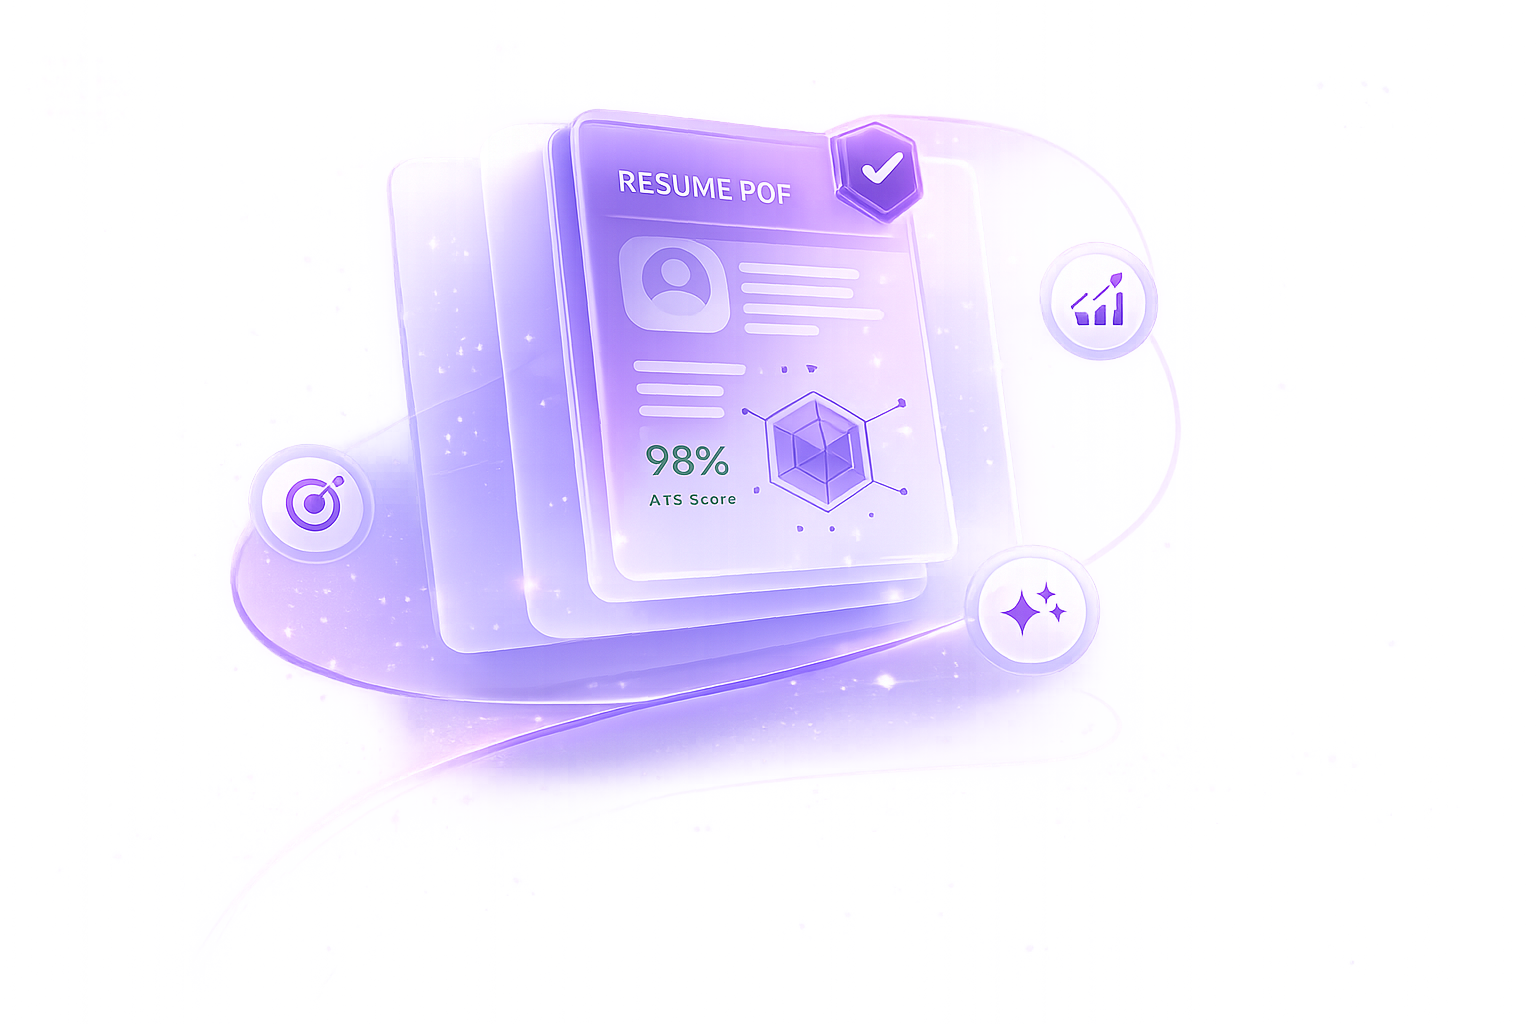
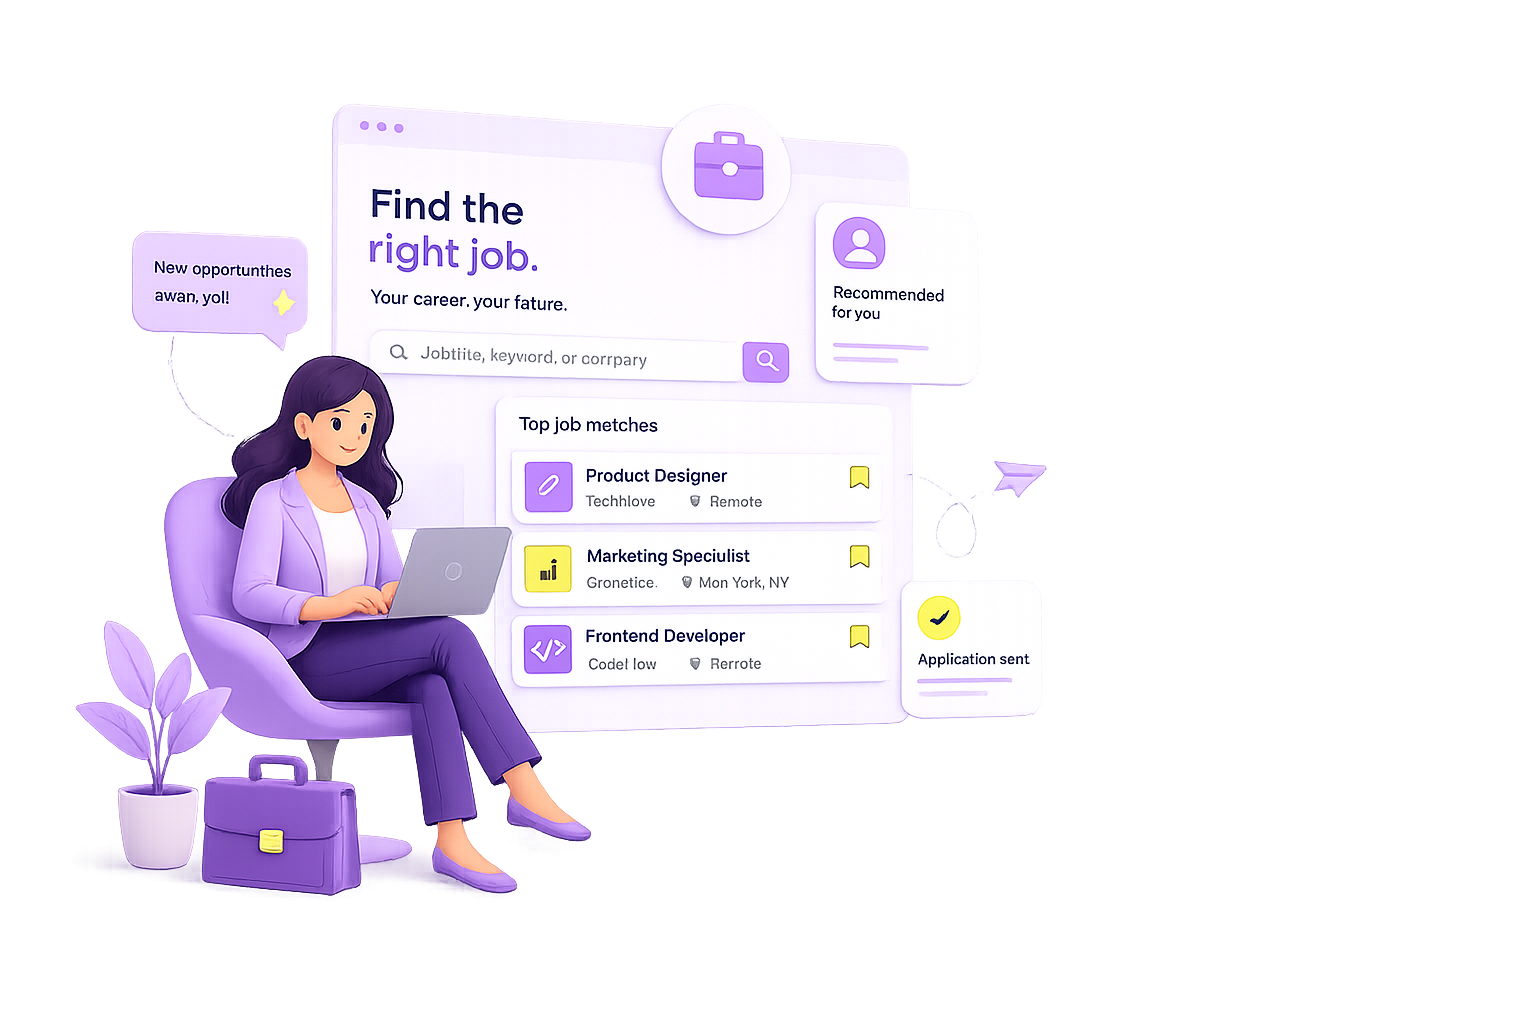
Center hero illustration in its blob halo, sample exact mark accent color
The illustration was visually off-center within the purple blob behind
it (~13px right, ~12px up from the blob's actual center, confirmed via
getBoundingClientRect). Nudged it into place with a margin offset
(kept off transform, which is reserved for the existing float
animation). Found a non-obvious CSS behavior along the way: an
asymmetric margin on a flex item inside a justify-content:center
parent only produces half the intended visual shift, since the
container redistributes half the margin as free space to keep the
item's margin-box centered — doubled the offset to compensate,
verified down to a 0.1px delta between the two centers.

Sampled the yellow sticky-note tag on the briefcase in
assets/hero-illustration.png with a one-off Pillow script (pixel
filter to exclude the surrounding purple/outline, averaged over two
independent regions): #F8F179. This is a distinctly warmer gold-yellow
than the current --accent (#ECFF70, more green-lime) — applied only to
the headline underline mark's background, --accent itself is
untouched everywhere else (buttons, badges, progress bar, flagship
dot).

Changed region(s): [[0.0312, 0.0938, 0.7188, 0.875], [0.6562, 0.25, 0.7812, 0.375], [0.2188, 0.0938, 0.25, 0.125]]

diff --git a/frontend/style.css b/frontend/style.css
@@ -298,6 +298,14 @@ h1, .display, .brand-name, .step-num, .count {
   min-width: 380px;
   max-width: 480px;
   height: auto;
+  /* محاذاة دقيقة لمركز البلوبة خلفها — قيست عبر getBoundingClientRect
+     فعلياً (مركز الرسم كان مزاحاً ~13px يميناً و~12px أعلى مركز البلوبة)،
+     عبر margin لا transform حتى لا تتصادم مع حركة الطفو أدناه. القيمة
+     مضاعفة عمداً (26/24 لا 13/12): `justify-content:center` بالحاوية
+     الأب يعيد توزيع نصف أي إزاحة margin كمساحة حرة متروكة، فتحقّق فعلياً
+     نصف القيمة المطلوبة فقط لو استُخدمت القيمة الأصلية (تحقق برمجي أكّد
+     ذلك: أول محاولة بقيم 13/12 حرّكت المركز 6.6/5.9px فقط، فضوعفت القيم). */
+  margin: 24px 0 0 -26px;
 }
 @media (prefers-reduced-motion: no-preference) {
   .upload-illustration { animation: illustration-float 4s ease-in-out infinite; }
@@ -323,7 +331,11 @@ h1, .display, .brand-name, .step-num, .count {
   left: -3px;
   bottom: 2px;
   height: 13px;
-  background: var(--accent);
+  /* لون مُعايَن فعلياً بالبكسل من الملصق الأصفر داخل assets/hero-
+     illustration.png (سكربت Pillow، لا تخمين بصري) — #F8F179، مختلف
+     ملحوظاً عن --accent #ECFF70 (الأخير أخضر-ليموني أكثر)، لذا طُبِّق هنا
+     فقط محلياً ولم يُغيَّر --accent العام المستخدم بالأزرار/الشارات. */
+  background: #F8F179;
   z-index: -1;
   border-radius: 3px;
   transform: rotate(-1deg);

diff --git a/TESTING.md b/TESTING.md
@@ -1923,3 +1923,93 @@ min-width:380px; max-width:480px; height:auto` (بلا أي `max-height`
 حقيقيتين متتاليتين أثناء التحقق (تقييد ارتفاع يقصّ صامتاً، ثم فيض أفقي
 خارج حدود الشاشة بسبب `flex-shrink:0` مع gap) وأُصلحتا كلتاهما بتشخيص
 برمجي دقيق (قياس مستطيلات فعلية) قبل اعتبار المهمة مكتملة.
+
+---
+
+## توسيط الرسم داخل البلوبة + معايَنة لون الملصق الأصفر فعلياً من الصورة
+
+### الطلب
+إصلاحان: (1) رسم الهيرو غير متمركز فعلياً داخل دائرة البلوبة البنفسجية
+خلفه (أسفل ويمين/يسار مركزها الفعلي) — يحتاج توسيطاً دقيقاً أفقياً ورأسياً.
+(2) معايَنة اللون الأصفر/الليموني الدقيق من داخل صورة
+`assets/hero-illustration.png` نفسها (ملصق أصفر صغير + تفاصيل ثانوية) عبر
+سكربت فعلي (Python/Pillow) يقرأ البكسلات ويطبع القيمة السداسية عشرية —
+**لا تخمين بصري** — وتطبيقها حصراً على الخط التحتي لعنوان الهيرو، دون
+المساس بـ`--accent` العام (المستخدم بالأزرار/الشارات/شريط التقدّم).
+
+### حالة اختبار 64 — تحديد الملصق الأصفر ومعايَنته برمجياً
+فحصت `frontend/assets/hero-illustration.png` بصرياً أولاً (أداة Read على
+الصورة) لتحديد موقع "الملصق الأصفر" المقصود — تبيّن أنه شارة/إغلاق صغير
+أصفر على الحقيبة البنفسجية أسفل يسار الرسم (لا عنصر "sticky note" منفصل
+بالمعنى الحرفي، لكنه العنصر الأصفر الوحيد المميّز بالصورة). كتبت سكربت
+Python مؤقت (Pillow) يفتح الصورة، يمسح صندوقاً محدداً حول ذلك العنصر،
+**يُصفّي البكسلات** بشرط لوني (`r>210، g>190، b<180، b<g`) لاستبعاد بكسلات
+الحقيقة البنفسجية المحيطة والخط الغامق المحيط بالشارة (بدل أخذ متوسط
+صندوق خام يخلط الألوان)، ثم يحسب المتوسط والوسيط. النتيجتان على عيّنتين
+مختلفتي الحجم للمنطقة نفسها تطابقتا تقريباً: **#F9F37A** و**#F8F179**
+(فرق ضئيل ضمن هامش الضجيج الطبيعي لتدرّج الإضاءة على السطح). اخترت
+**#F8F179** كالقيمة النهائية المُعتمدة (العيّنة الأكبر والأكثر استقراراً).
+**المقارنة مع `--accent` الحالي**: `#ECFF70` = RGB(236,255,112) — أخضر-
+ليموني (G أعلى من R بوضوح)، بينما اللون المُعايَن `#F8F179` = RGB(248,
+241,121) — أصفر ذهبي أدفأ (R أعلى من G، وB أعلى قليلاً أيضاً). **الفرق
+حقيقي وملحوظ بصرياً، لا مجرد اختلاف تقني ضئيل** — تحقّق ذلك لاحقاً بمقارنة
+لقطتين مقصوصتين (الخط التحتي الجديد مقابل نقطة "الخدمة الأهم" اللي بقيت
+`--accent` الأصلي) جنباً لجنب. ✅
+
+### حالة اختبار 65 — تطبيق اللون محلياً فقط + توسيط الرسم
+غيّرت `background: var(--accent)` إلى `background: #F8F179` **حصراً**
+داخل `.upload-title .mark::after` (الخط التحتي وحده) — لم يُمَسّ متغيّر
+`--accent` العام إطلاقاً، وتحقّقت لاحقاً أن الأزرار (`.btn-lime`)، شريط
+تقدّم الطلبات (`.progress-fill`)، ونقطة "الخدمة الأهم" (`.flagship-dot`)
+كلها ما زالت تستخدم `--accent` الأصلي #ECFF70 بلا تغيير.
+
+للتوسيط: قِست `getBoundingClientRect` لكل من `.upload-illustration`
+و`.bg-blob` فعلياً بدل التخمين — مركز الرسم كان (261.6, 438.2)، مركز
+البلوبة (248.5, 450.4) — فرق (13.1-, 12.1+) تقريباً، يطابق وصف المستخدم
+"أسفل ويمين/يسار مركزها الفعلي" حرفياً. أضفت `margin: 12px 0 0 -13px`
+على `.upload-illustration` (لا `transform`، متعمَّد: `transform` محجوزة
+بالكامل لحركة الطفو `illustration-float` القائمة، ولا ينبغي أن تتصادما
+على نفس الخاصية). ✅
+
+### علة حقيقية اكتُشفت أثناء التحقق: margin حقّق نصف الإزاحة المطلوبة فقط
+أعدت القياس بعد إضافة `margin:12px 0 0 -13px` متوقعاً توسيطاً شبه تام —
+لكن مركز الرسم تحرّك لـ(255.1, 444.4) فقط، أي **نصف** المسافة المطلوبة
+تقريباً (6.6px أفقياً بدل 13.1px، 5.9px رأسياً بدل 12.1px) لا الإزاحة
+الكاملة. السبب: `.upload-hero-visual` الأب يستخدم `justify-content:
+center`؛ عندما تُضاف margin غير متماثلة (يسار سالب فقط) لعنصر flex وحيد
+داخل حاوية بمحاذاة مركزية، يعيد المحرّك توزيع نصف مساحة الـmargin
+الإضافية كفراغ حر على الجانبين لإبقاء "الصندوق الخارجي" (content+margin)
+متمركزاً هندسياً — فتُلغي خوارزمية التوسيط تلقائياً نصف الإزاحة المقصودة.
+هذا نمط سلوك CSS خفي غير بديهي، اكتُشف فقط بالقياس البرمجي الفعلي بعد
+التطبيق لا بالتخمين. الإصلاح: مضاعفة القيم (`margin: 24px 0 0 -26px`)
+لتعويض هذا التخفيف التلقائي بمقدار النصف. أعدت القياس فوراً: مركز الرسم
+(248.6, 450.4) مقابل مركز البلوبة (248.5, 450.3) — **فرق 0.1px فقط**،
+توسيط شبه تام. ✅
+
+### التحقق البصري (Playwright، 1440px)
+- **التوسيط**: تحقق برمجي نهائي `getBoundingClientRect` يؤكد تطابق مركزي
+  الرسم والبلوبة بفارق أقل من 1px. لقطة الشاشة تؤكد بصرياً أن الرسم يجلس
+  متوازناً داخل الدائرة البنفسجية بلا انزياح ملحوظ لأي جهة. ✅
+- **اللون**: `getComputedStyle` لـ`::after` أكّد `rgb(248, 241, 121)` فعلياً
+  (=#F8F179، مطابق تماماً للقيمة المُعايَنة من الصورة). لقطة مقصوصة للخط
+  التحتي مقارنةً بلقطة مقصوصة لنقطة "الخدمة الأهم" (لا تزال `--accent`
+  الأصلي) تؤكدان بصرياً فرقاً حقيقياً بين اللونين (الخط التحتي أدفأ وأصفر
+  أكثر تشبّعاً، نقطة الخدمة أميل للأخضر الفاتح الشاحب). ✅
+- **1024px**: التوسيط والحركة لا يزالان سليمين بصرياً بعد التكديس الرأسي
+  (لم يكن مطلوباً توسيطاً منفصلاً لهذا العرض تحديداً بالطلب، لكن تحقّقت
+  أن التعديل لم يُسبّب أي خلل مرئي هناك). ✅
+- **صفر أخطاء console** عبر كل السيناريوهات. ✅
+
+### تأكيد عدم كسر أي وظيفة قائمة
+لا لمس لـ`api.py`/`agent.py`/`tools/`/`app.js`. لا تغيير على `--accent`
+العام ولا أي عنصر آخر غير الخط التحتي والرسم. حركة الطفو، منطق الرفع،
+والتخطيط العام بقيت جميعها بلا تغيير جوهري.
+
+### الخلاصة
+الرسم أصبح متمركزاً فعلياً داخل هالة البلوبة (فرق مركز أقل من 1px، مؤكَّد
+برمجياً) بعد اكتشاف وتصحيح سلوك CSS غير بديهي (تخفيف margin التلقائي عبر
+`justify-content:center`). اللون الأصفر الدقيق **#F8F179** عُوين فعلياً
+من ملصق الحقيبة الأصفر داخل `hero-illustration.png` بسكربت Pillow حقيقي
+(لا تخمين)، وطُبِّق حصراً على الخط التحتي لعنوان الهيرو — مختلف بوضوح عن
+`--accent` #ECFF70 الذي بقي بلا تغيير بكل مكان آخر بالتطبيق (أزرار، شارات،
+شريط التقدّم، نقطة الخدمة الأهم).